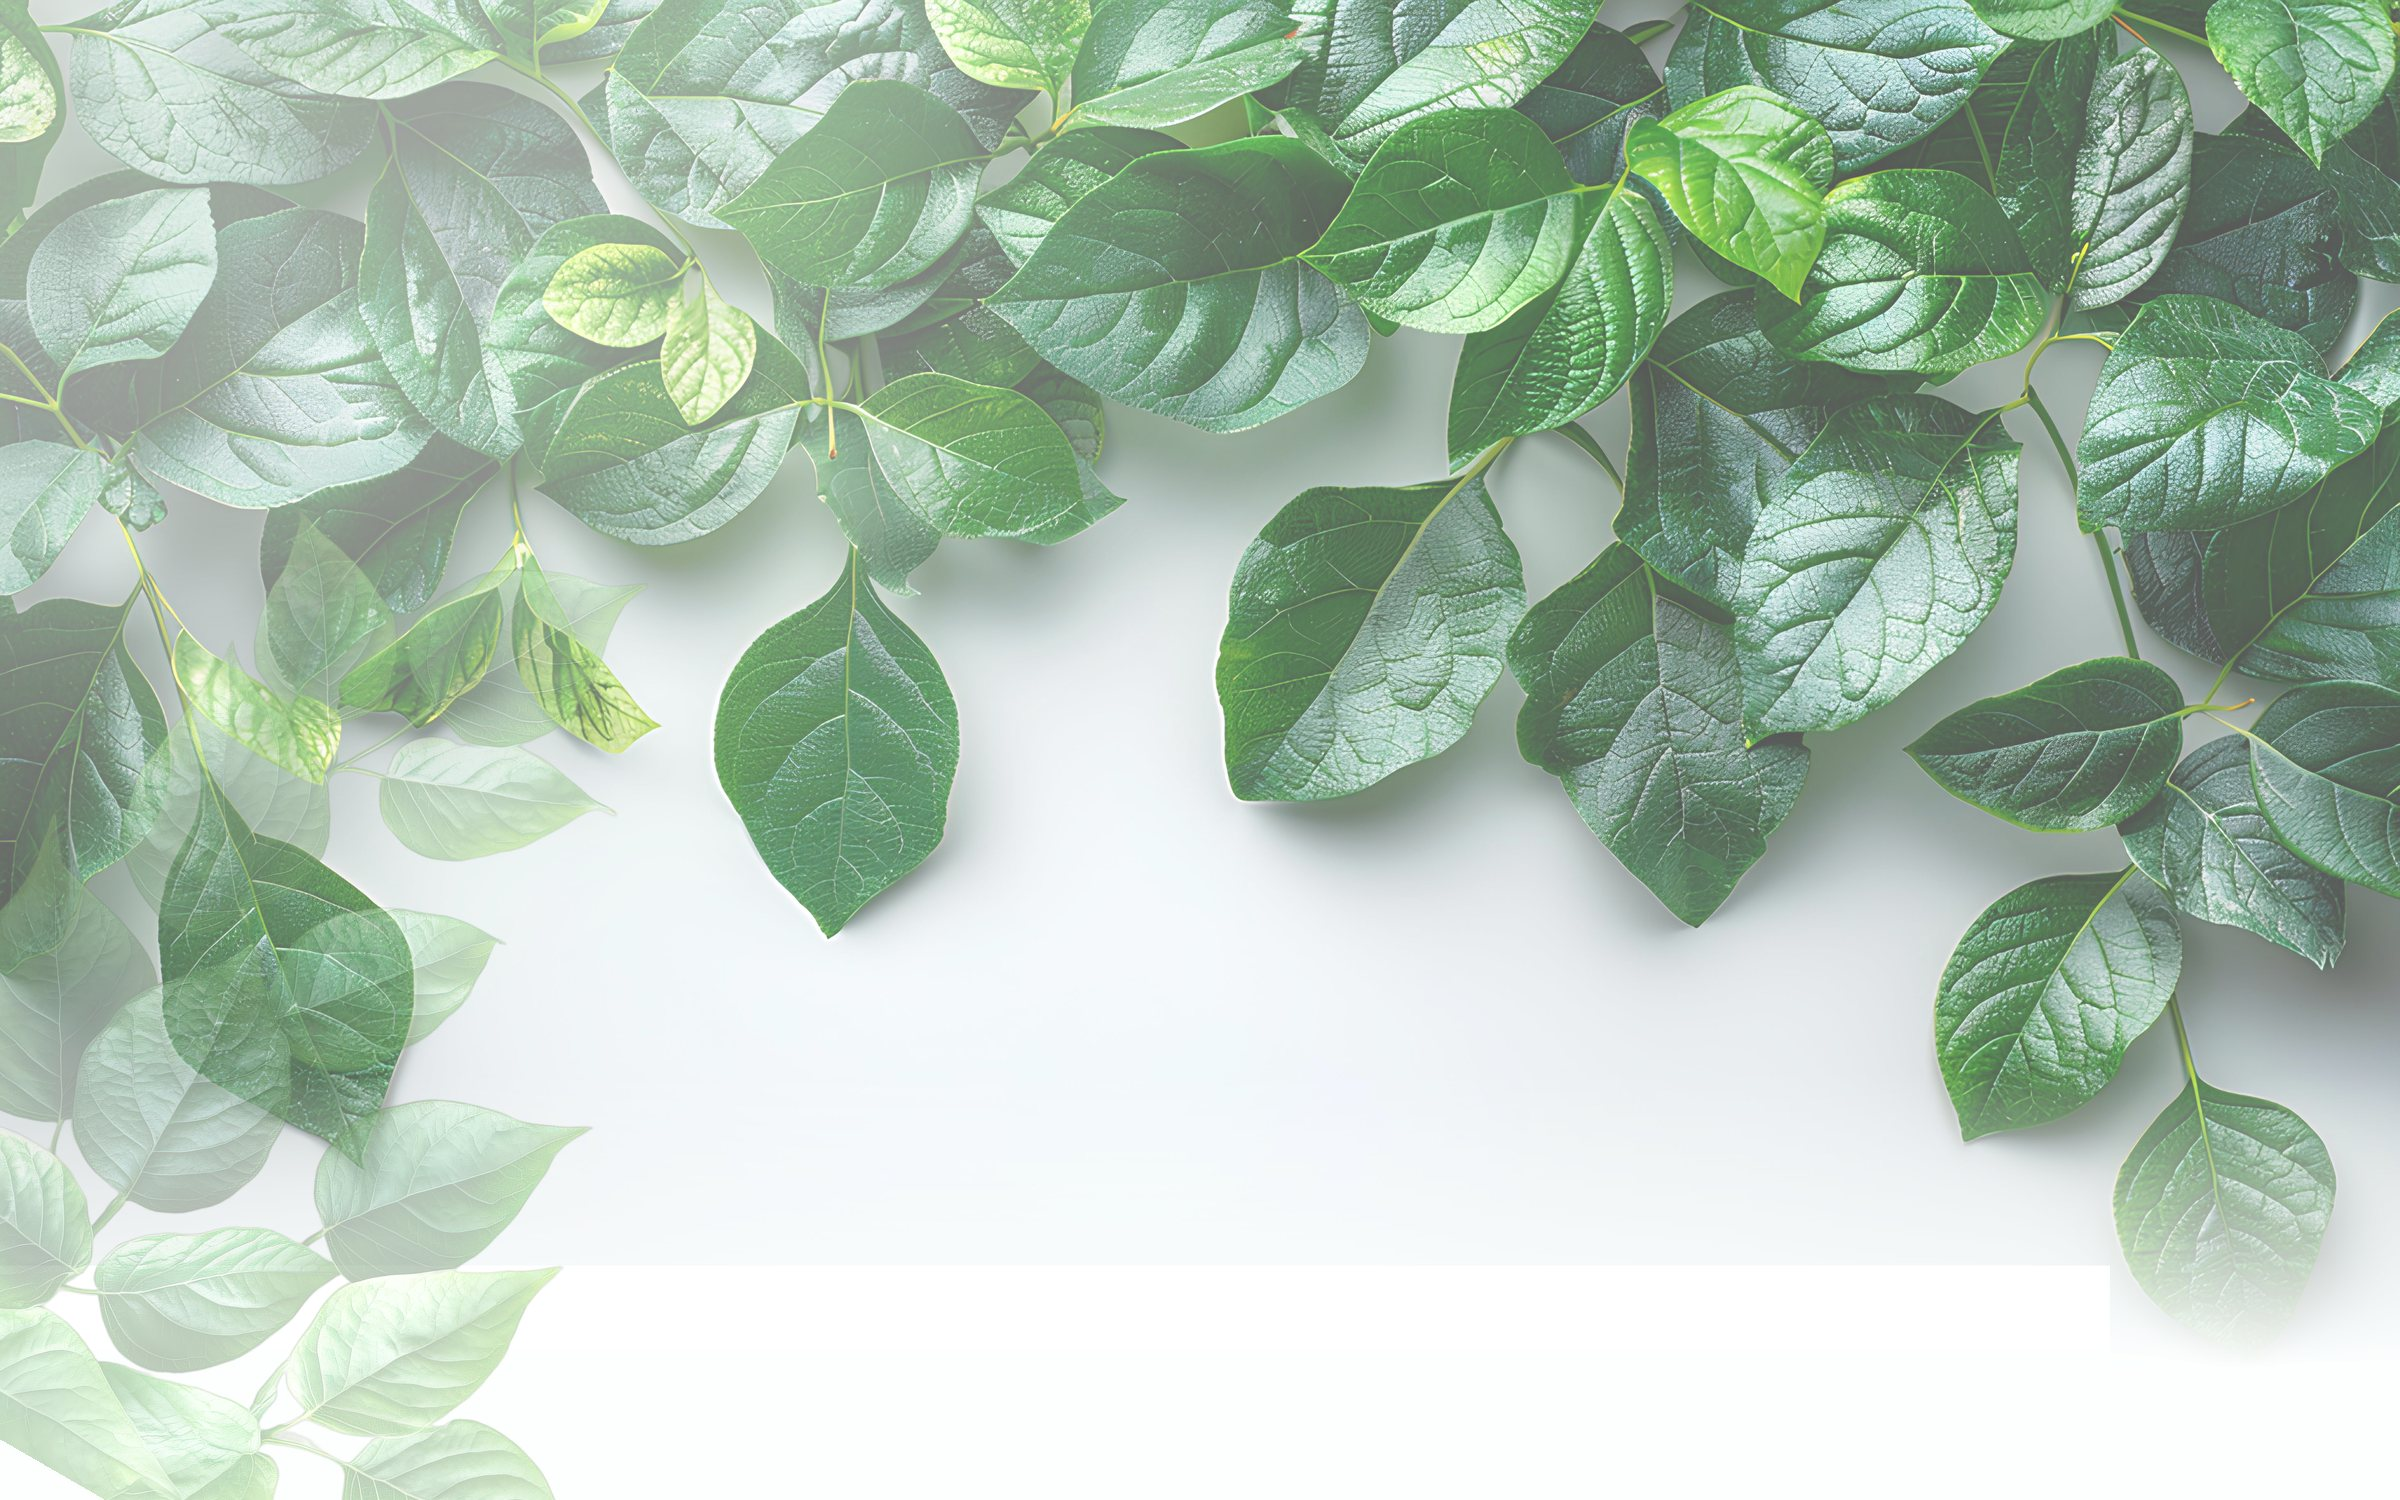
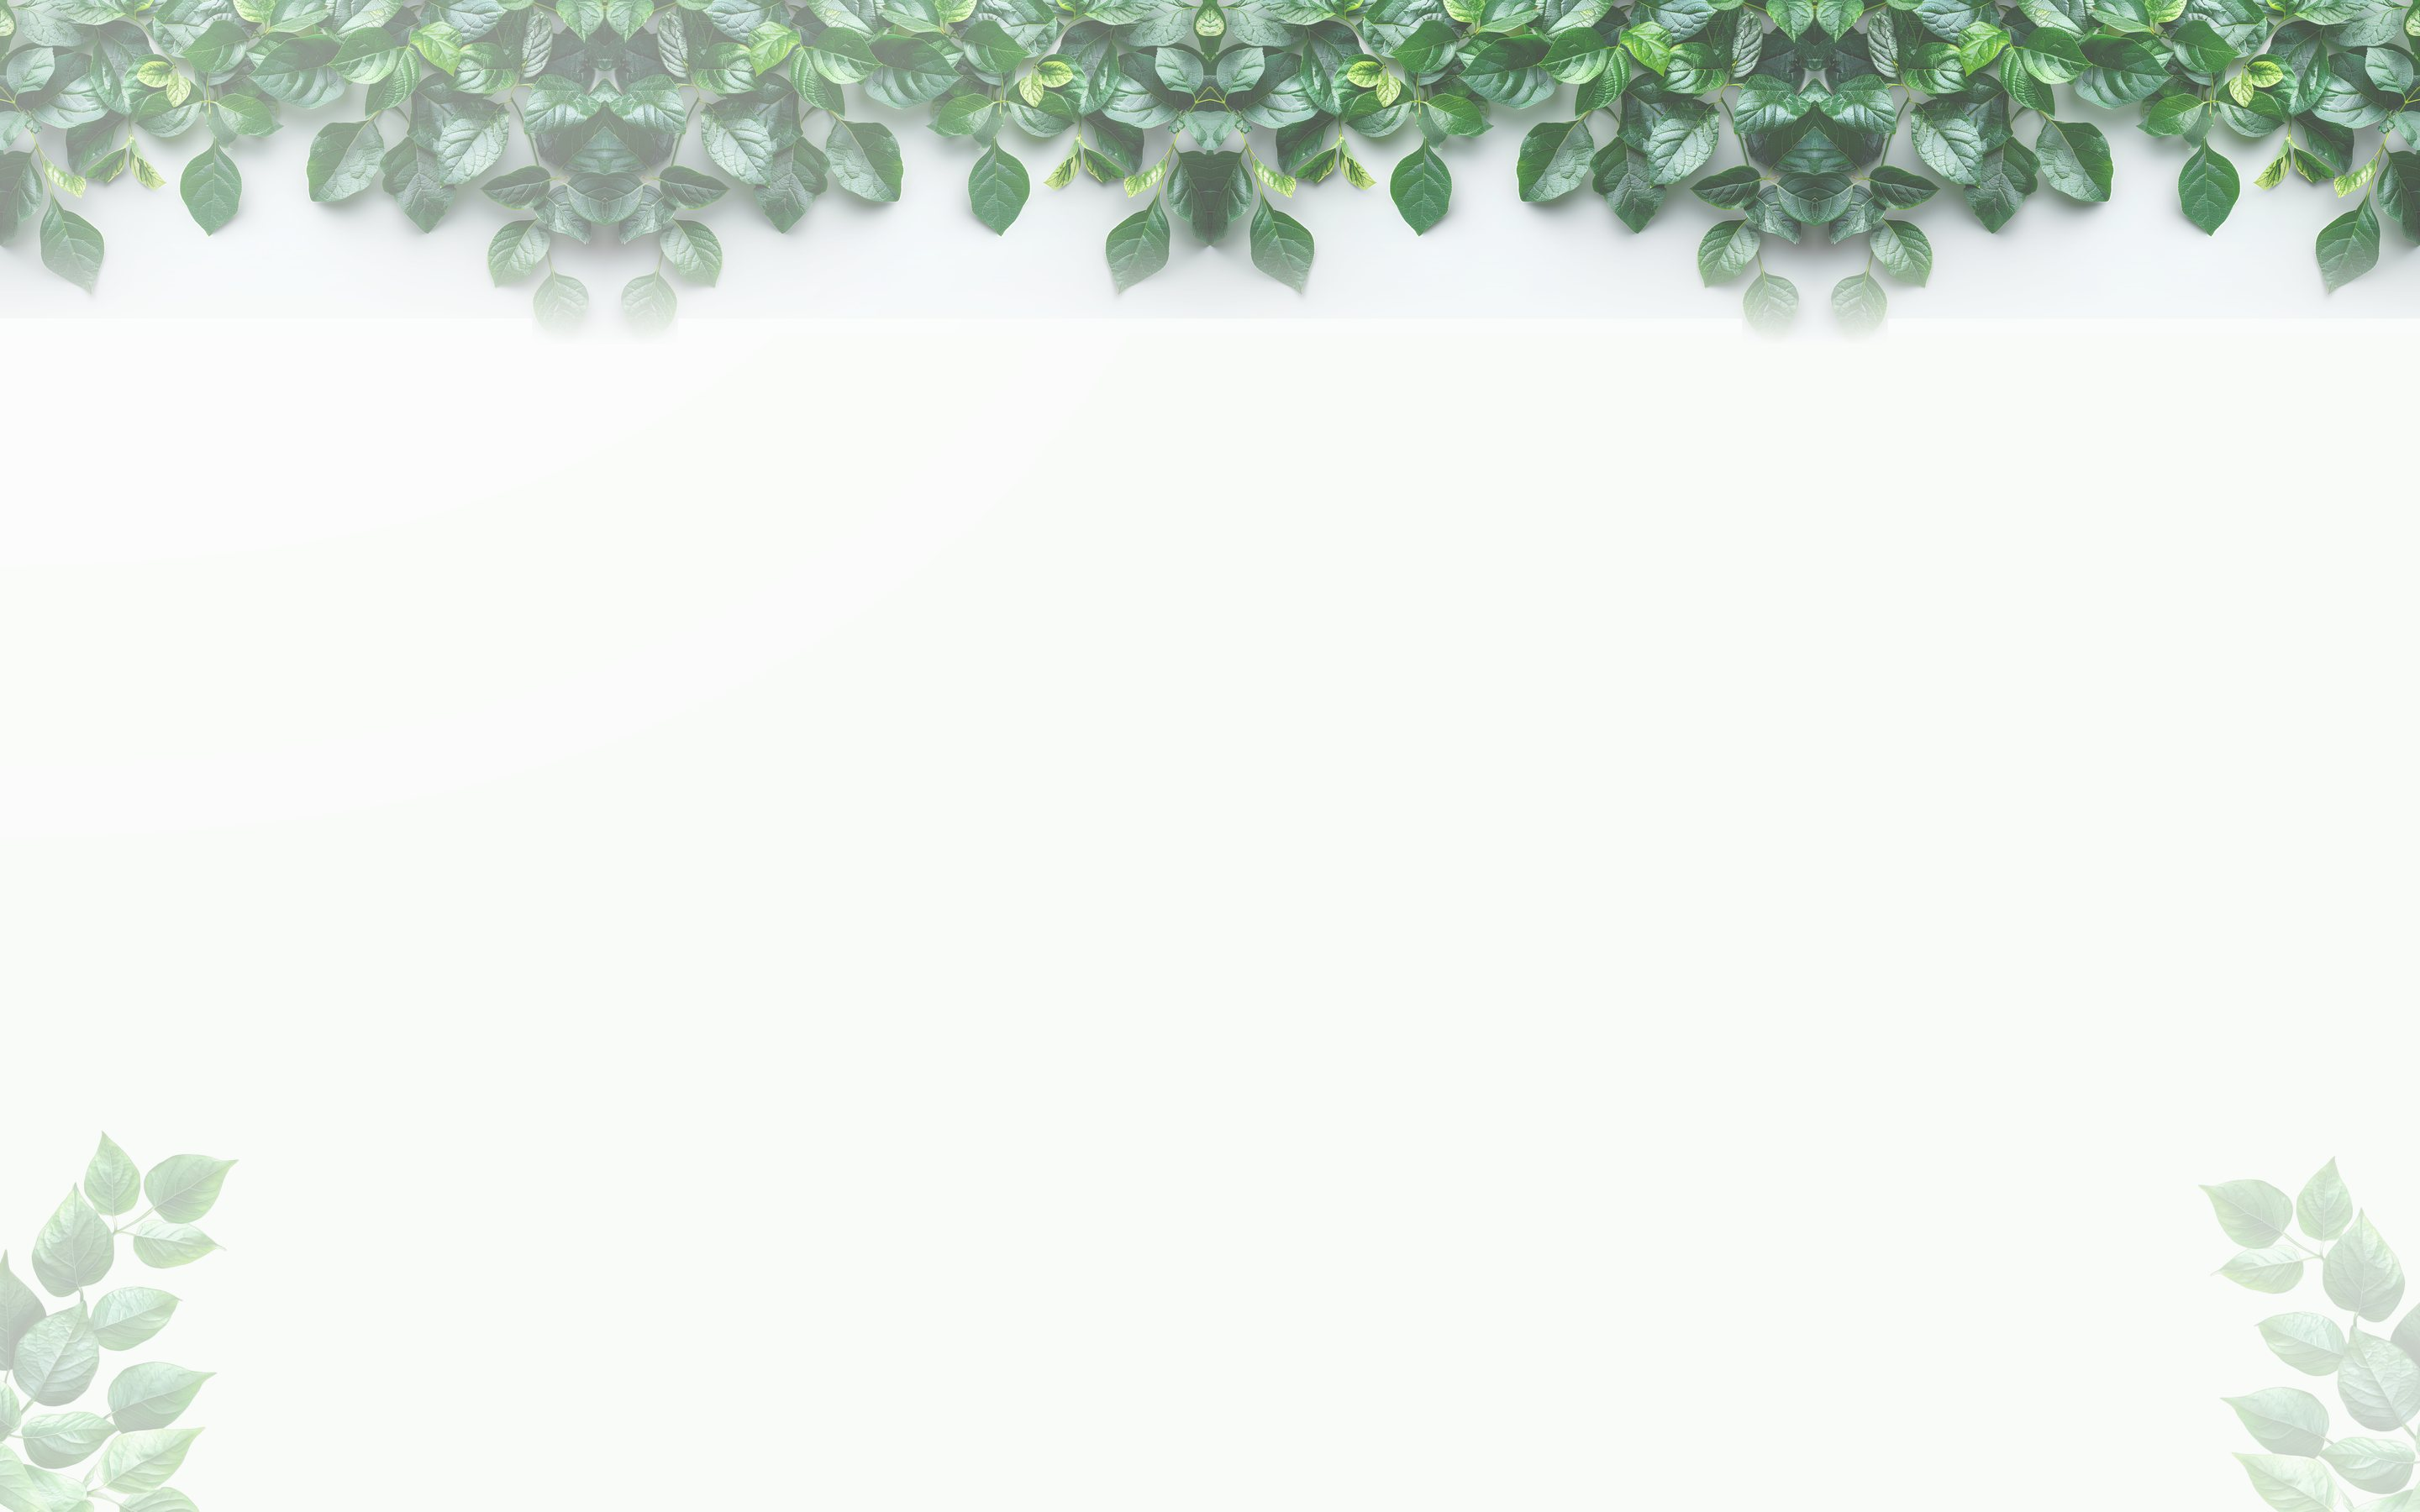
Login (světlá): oddálený záběr listů dle reference
Pozadí překomponováno na vzdálený pohled: zdroj zmenšen na 1/4 a bezešvě
zrcadlově dlážděn (listy ~4x menší, pás u horní hrany + drobné větvičky
v dolních rozích), plátno 2880x1800. CSS: inset 0 (ruší 16% zvětšení
z tmavé varianty), pozice top. Žádné přibližování — leaves stay small.

diff --git a/assets/css/login.css b/assets/css/login.css
@@ -40,9 +40,11 @@ body::after {
    kde vystupují ze tmy). Obrázek sám mizí do čista vpravo, kde je formulář.
    Pravidlo je jen v login.css (načítá se pouze na login stránce). */
 html[data-lg-theme="light"] body::after {
-    /* svěží zelené listy na bílé (reference od uživatele): plná sytost vlevo,
+    /* svěží zelené listy na bílé (reference od uživatele): ODDÁLENÝ záběr
+       (malé listy, žádné zvětšování - inset 0 ruší -8% zvětšení z dark varianty);
        vpravo jen mírné ztišení — POD sklem panelu musí zůstat vidět,
        aby je Liquid Glass refrakce měla co lámat */
+    inset: 0;
     background-image: url('../img/login-leaf-bg-light.jpg');
     background-position: top center;
     background-size: cover;